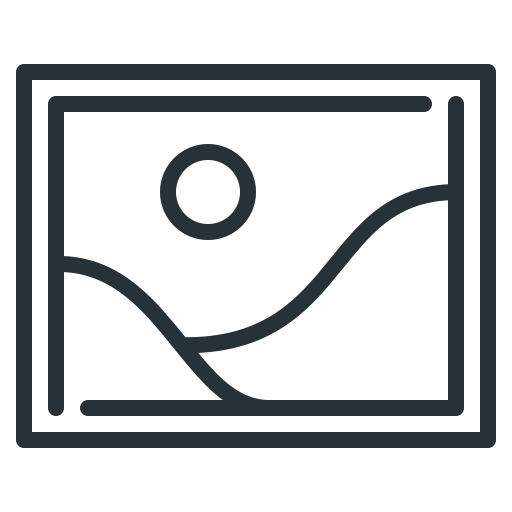
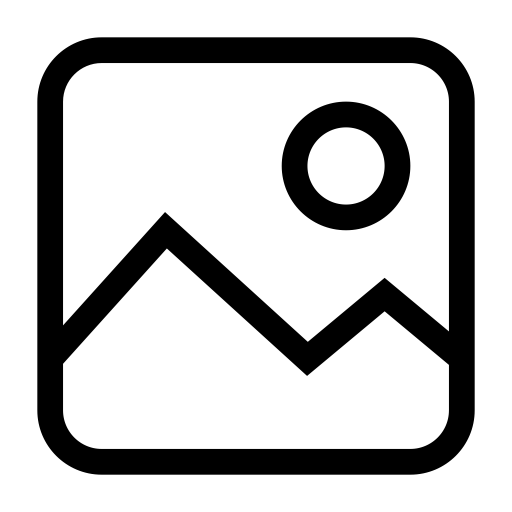
viewerByPanD 1. 添加 返回上级目录 按钮

diff --git a/viewerByPanD/src/viewer/controller/PictureOverviewController.java b/viewerByPanD/src/viewer/controller/PictureOverviewController.java
@@ -1,5 +1,6 @@
 package viewer.controller;
 
+import javafx.beans.property.SimpleIntegerProperty;
 import javafx.beans.property.SimpleObjectProperty;
 import javafx.beans.value.ChangeListener;
 import javafx.beans.value.ObservableValue;
@@ -14,6 +15,7 @@ import viewer.model.DirTreeItem;
 
 import javax.swing.filechooser.FileSystemView;
 import java.io.File;
+import java.io.FileFilter;
 
 /**
  * Created by PanD
@@ -22,17 +24,24 @@ import java.io.File;
 public class PictureOverviewController {
 
     @FXML
+    private FlowPane previewPane;
+
+    @FXML
     private TreeView<File> dirTree;
+
     @FXML
     private Label stateLabel;
     @FXML
+    private Label pathLabel;
+
+    @FXML
     private Button slidPlayButton;
     @FXML
-    private Label pathLabel;
-    @FXML
-    private FlowPane previewPane;
+    private Button backToParentFileButton;
 
     protected SimpleObjectProperty<File> selectedDir;
+
+    protected SimpleIntegerProperty selectedDirIndex;
 
     public void setSelectedDir(File selectedDir) {
         this.selectedDir.set(selectedDir);
@@ -42,10 +51,17 @@ public class PictureOverviewController {
     public void initialize() {
 
         initDirTree();
-        initTopOfPreview();
+        initPreview();
 
     }
 
+    //初始化-----------------------------------------------------------------------------------
+
+    /**
+     * description: 目录树的初始化
+     * @param
+     * @return void
+     */
     public void initDirTree() {
         DirTreeItem root = new DirTreeItem(new File("root"), true);
         root.load();
@@ -103,41 +119,69 @@ public class PictureOverviewController {
                 if (newValue == null) {
                     return;
                 }
-                //newValue为选中值
-                //TODO 右侧页面要显示
-                System.out.println(newValue);
-                selectedDir.setValue(newValue.getValue());
+                //observable.getValue().getValue()为选中的目录
+                System.out.println(observable.getValue().getValue());
+                setSelectedDir(observable.getValue().getValue());
             }
         });
-
-        //展开/收起事件----------------------------------------------------------------------
-//        //展开之后改变节点样式
-//        root.addEventHandler(DirTreeItem.<File>branchExpandedEvent(), new EventHandler<DirTreeItem.TreeModificationEvent<File>>() {
-//            @Override
-//            public void handle(DirTreeItem.TreeModificationEvent<File> event) {
-//
-//                System.out.println(event.getTreeItem().getValue()+"open");
-//            }
-//        });
-//
-//        //收起之后改变节点样式
-//        root.addEventHandler(DirTreeItem.<File>branchCollapsedEvent(), new EventHandler<DirTreeItem.TreeModificationEvent<File>>() {
-//            @Override
-//            public void handle(DirTreeItem.TreeModificationEvent<File> event) {
-//                System.out.println(event.getTreeItem().getValue()+"close");
-//            }
-//        });
 
     }
 
-    public void initTopOfPreview() {
+    /**
+     * description: 图片预览区域的初始化
+     * @param
+     * @return void
+     */
+    public void initPreview() {
         selectedDir = new SimpleObjectProperty<File>();
+
+        //对文件选择的监听
         selectedDir.addListener(new ChangeListener<File>() {
             @Override
             public void changed(ObservableValue<? extends File> observable, File oldValue, File newValue) {
-                pathLabel.setText(newValue.getPath());
+
+                File currentDir = observable.getValue();
+
+                //上方导航栏
+                pathLabel.setText(currentDir.getPath());
+                stateLabel.setText("加载中...");
+                //筛选对应的图片文件
+                File[] images = currentDir.listFiles(
+                        new FileFilter() {
+                            @Override
+                            public boolean accept(File pathname) {
+                                if (pathname.isFile()) {
+                                    String name = pathname.getName().toLowerCase();
+                                    if (name.endsWith(".jpg") || name.endsWith(".jpge") || name.endsWith(".gif")
+                                            || name.endsWith(".png") || name.endsWith("bmp")) {
+                                        return true;
+                                    }
+                                }
+                                return false;
+                            }
+                        }
+                );
+                if (images != null) {
+                    stateLabel.setText(String.format("已加载 0 张 | 共 %d 张图片", images.length));
+                    previewPane.getChildren().clear();
+                }
             }
         });
+    }
+
+    private void loadPicture(File[] images) {
+        int count = 0;
+        for (File image : images) {
+
+        }
+    }
+
+    //按钮Action-------------------------------------------------------------------------------
+    public void backToParentDirectory() {
+        if (selectedDir.getValue().getParentFile() != null) {
+            setSelectedDir(selectedDir.getValue().getParentFile());
+            System.out.println("parent file:" + selectedDir.getValue().getPath());
+        }
     }
 
 }

diff --git a/viewerByPanD/src/viewer/Main.java b/viewerByPanD/src/viewer/Main.java
@@ -19,7 +19,7 @@ public class Main extends Application {
     public void start(Stage primaryStage) throws Exception{
         this.primaryStage = primaryStage;
         primaryStage.setTitle("AddressApp");
-        this.primaryStage.getIcons().add(new Image("file:resources/images/title4.png"));
+        this.primaryStage.getIcons().add(new Image("file:resources/images/title.png"));
         initRootLayout();
         showPictureOverview();
     }
